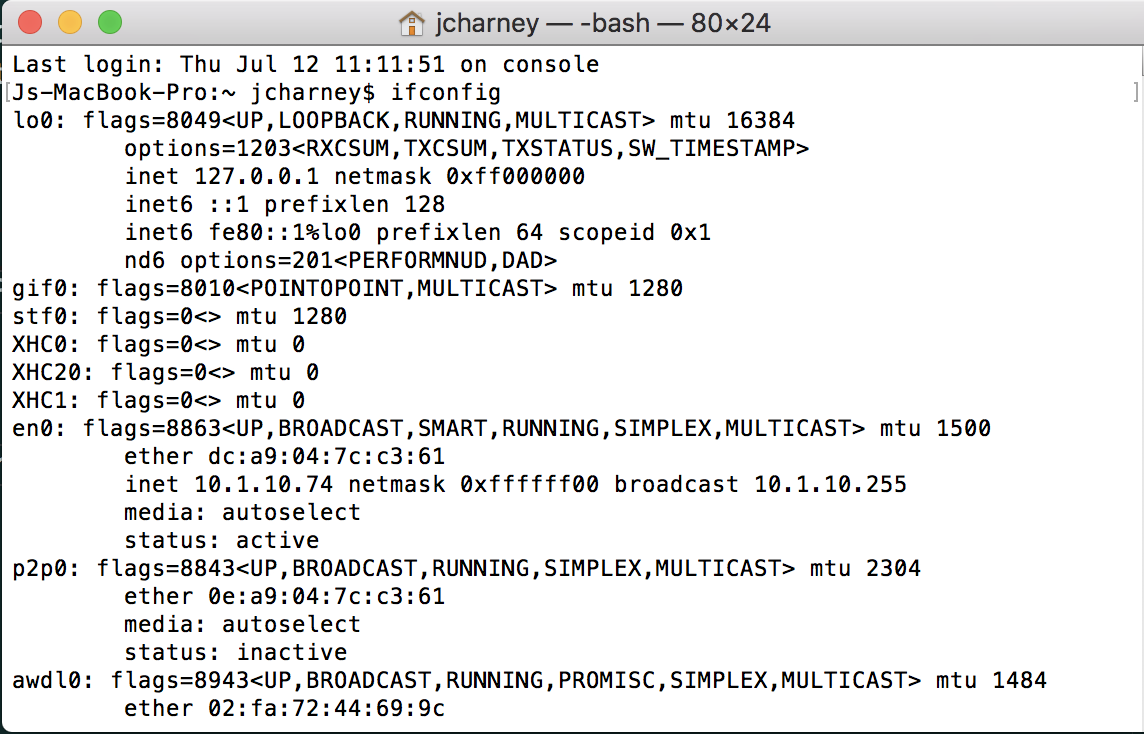
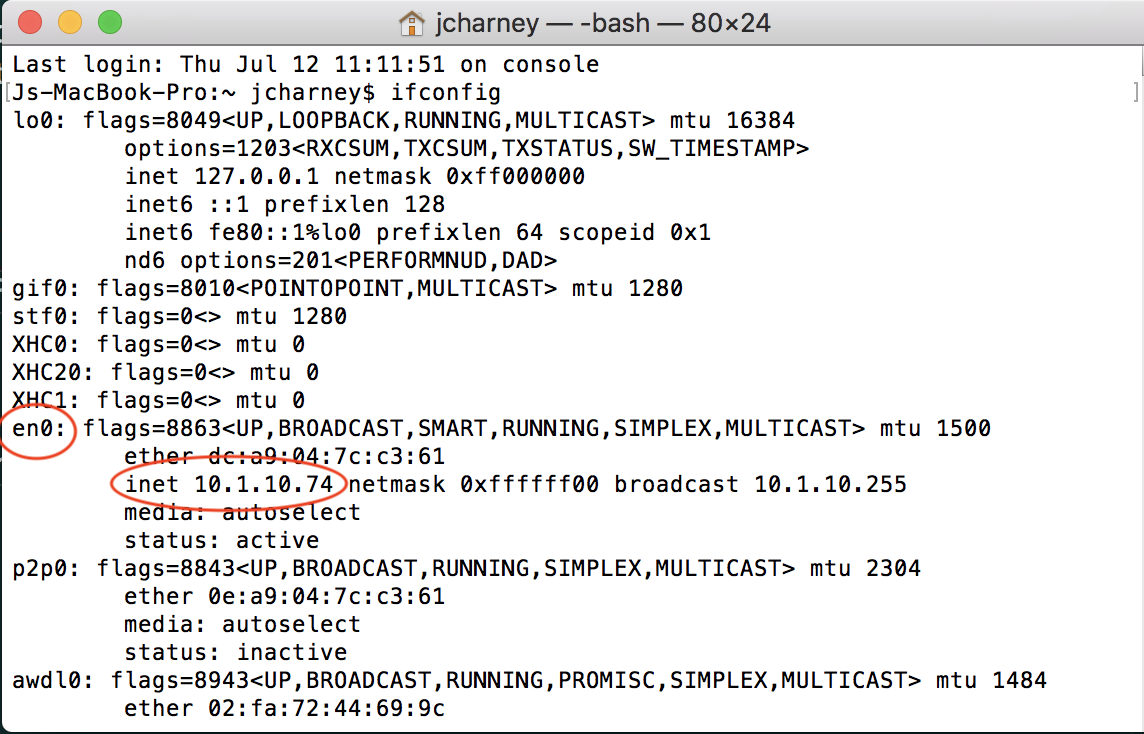
Update ifconfig image

diff --git a/README.md b/README.md
@@ -27,7 +27,7 @@ You only need to do this each time the network changes. Sometimes dynamic IP add
 
 Open Terminal and run `ifconfig` . Find the IP address of the computer on the current WiFi network (probably labeled with `en0` in front of it).
 
- [img here]
+![ifconfig](https://raw.githubusercontent.com/jasoncharney/syllabary/master/readme-imgs/ifconfig.png)
 
 Change the `hostIP` entry in `ports.JSON` (be sure to keep the quotes around it) and save. You can also change the ports here if they are being used by other applications.
 
